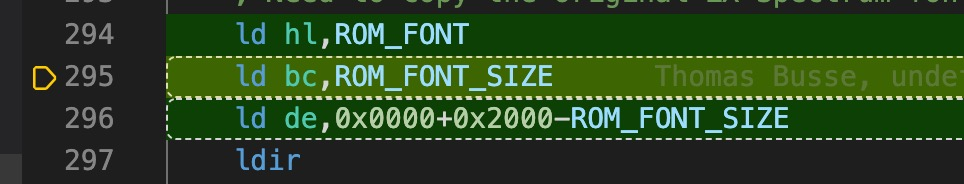
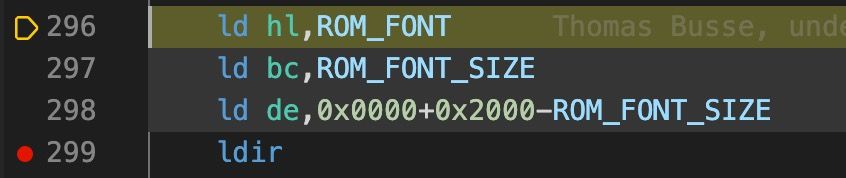
Documentation.

diff --git a/documentation/Usage.md b/documentation/Usage.md
@@ -328,16 +328,46 @@ Reverse debugging is basically done via the 2 red circled buttons in vscode:
 
 The first does a single step back (one instruction) and the 2nd runs through the whole recorded history until it hits a breakpoint or until the end of the history is reached.
 
-When you step back the lines in the source code are visually marked with a dotted frame so you know that you are in reverse debugging mode:
+When you step back the lines in the source code are visually marked with a slight gray background so you know that you are in reverse debugging mode:
 ![](images/revdbg_visualization.jpg)
 
-When you are in reverse debugging mode and do a forward continue/step over/step into/step out the commands operate on the instruction history.
+When you are in reverse debugging mode and do a forward continue/step-over/step-into/step-out the commands operate on the instruction history.
 I.e. you can step back and forward in the code as you like.
-Registers and callstack are updated accordingly.
+Registers and the callstack are updated accordingly.
 
 But please note: The history stores only the register values and stack contents. I.e. the memory or other HW state is not stored.
 So whenever a memory location is changed from the program code in reverse debugging this will not be reflected in e.g. the memory view.
 You can only rely on the register values.
+
+
+#### History Spot
+
+You can enable/disable a history spot around the current PC:
+~~~
+"history": {
+    "spotCount": 10
+}
+~~~
+
+If enabled (!= 0) you see the historic indices of the instructions. E.g. here:
+![](images/spot_count1.jpg)
+
+The indices are shown in brackets to the right.
+The PC is currently in line 988.
+The previous executed instruction is at index -1. Before at line 986 is index -2.
+Before that instructuin at index -3 (line 1008) we see that there was a branch. Obviously the flags have been NZ and the branch was taken.
+
+With the *History Spot* you can see what has just happened before without having to back step.
+
+In case a line/instruction has been executed more than once you will find several indices in the brackets. E.g.:
+![](images/spot_count2.jpg)
+
+When you step back you can also see the next instructions i.e. where you came from.
+If 'spotcount' is e.g. 10 you see a maximum of 10 previous and next indices.
+
+Here is an animated gif to illustrate the behaviour:
+![](images/spot_count_animated.gif)
+
 
 #### Breakpoints in Reverse Debug Mode
 
